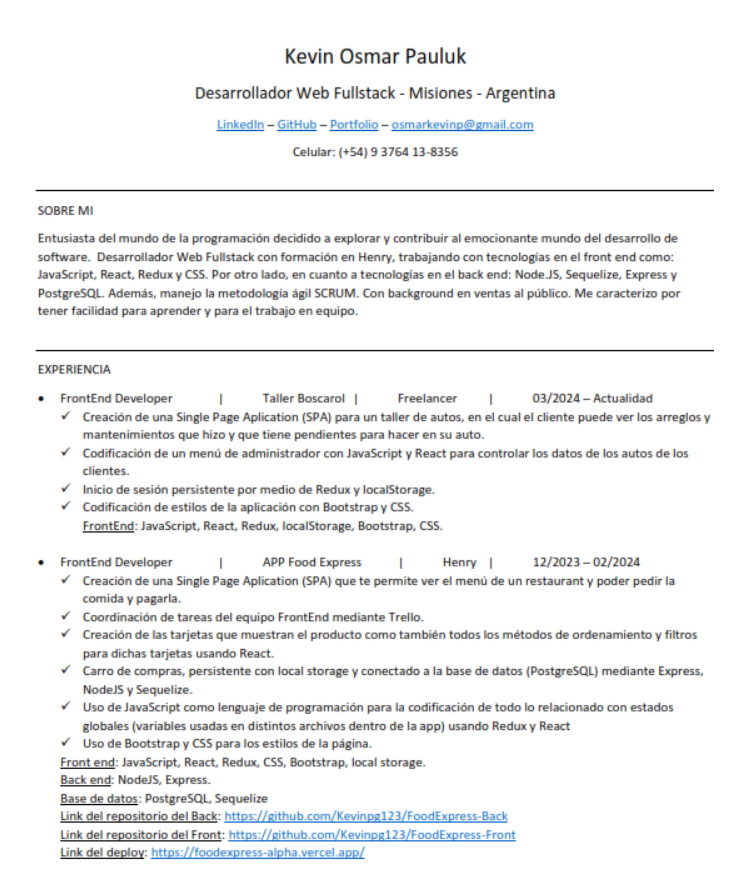
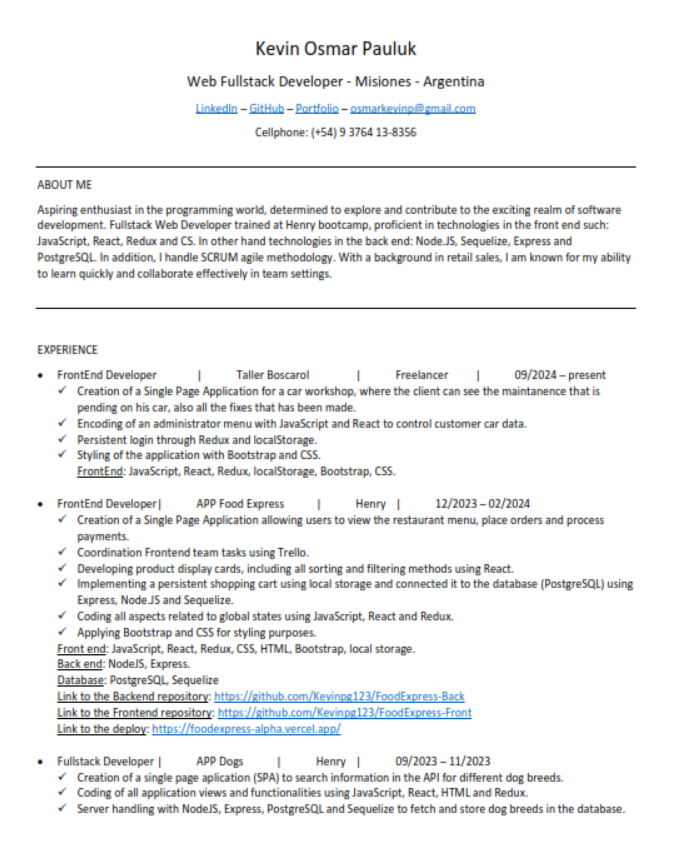
cv en ingles

Changed region(s): [[0.0309, 0.0304, 0.9574, 0.9731]]

diff --git a/src/components/Resume.jsx b/src/components/Resume.jsx
@@ -9,23 +9,26 @@ export default function Skills() {
     <section id="resume" className="resume-section">
       <h2 className={`page-header page-header-${theme}`}>Resume</h2>
       <div className="resume__container">
-        <a
+        {/* <a
           href="https://res.cloudinary.com/ddx1ikpma/image/upload/v1703889203/resume_xwxwn7.png"
           className="resume__link"
           rel="noreferrer"
           target="_blank"
-        >
-          <img
-            className={`resume__img${theme === "light" ? " light" : ""}`}
-            src={resume}
-            title="Click to view PDF"
-          />
-          <img
-            className={`resume__img${theme === "light" ? " light" : ""}`}
-            src={resume2}
-            title="Click to view PDF"
-          />
-        </a>
+        > */}
+        <img
+          style={{ marginLeft: '1em' }}
+          className={`resume__img${theme === "light" ? " light" : ""}`}
+          src={resume}
+          title="Click to view PDF"
+        />
+        <img
+          style={{ marginLeft: '1em' }}
+
+          className={`resume__img${theme === "light" ? " light" : ""}`}
+          src={resume2}
+          title="Click to view PDF"
+        />
+        {/* </a> */}
       </div>
     </section>
   );
